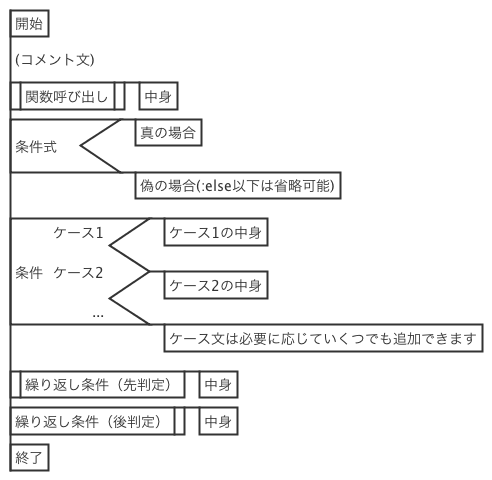
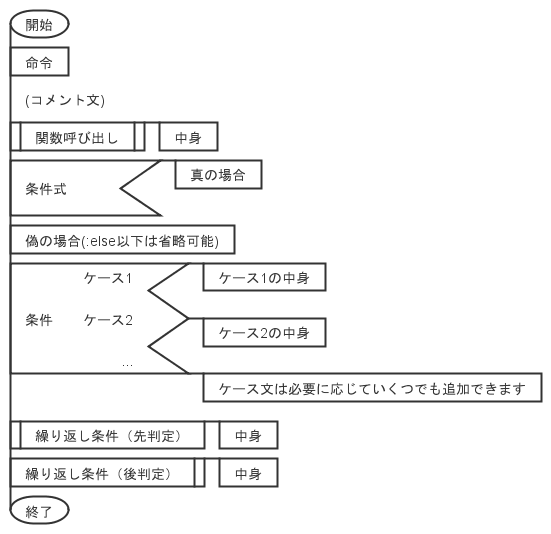
(#7) terminal の例を追記

Changed region(s): [[0.0, 0.0, 1.0, 1.0]]

diff --git a/doc/docs/index.md b/doc/docs/index.md
@@ -104,26 +104,27 @@ PadTools では以下の命令文が定義されています。
 
 例:
 
-     開始
-     :comment コメント文
-     :call 関数呼び出し
+    :terminal 開始
+    命令
+    :comment コメント文
+    :call 関数呼び出し
+       中身
+    :if 条件式
+        真の場合
+    :else
+        偽の場合(:else以下は省略可能)
+    :switch 条件
+    :case ケース1
+        ケース1の中身
+    :case ケース2
+        ケース2の中身
+    :case ...
+        ケース文は必要に応じていくつでも追加できます
+    :while 繰り返し条件（先判定）
         中身
-     :if 条件式
-         真の場合
-     :else
-         偽の場合(:else以下は省略可能)
-     :switch 条件
-     :case ケース1
-         ケース1の中身
-     :case ケース2
-         ケース2の中身
-     :case ...
-         ケース文は必要に応じていくつでも追加できます
-     :while 繰り返し条件（先判定）
-         中身
-     :dowhile 繰り返し条件（後判定）
-         中身
-     終了
+    :dowhile 繰り返し条件（後判定）
+        中身
+    :terminal 終了
 
 ↓（PADへ変換）
 
